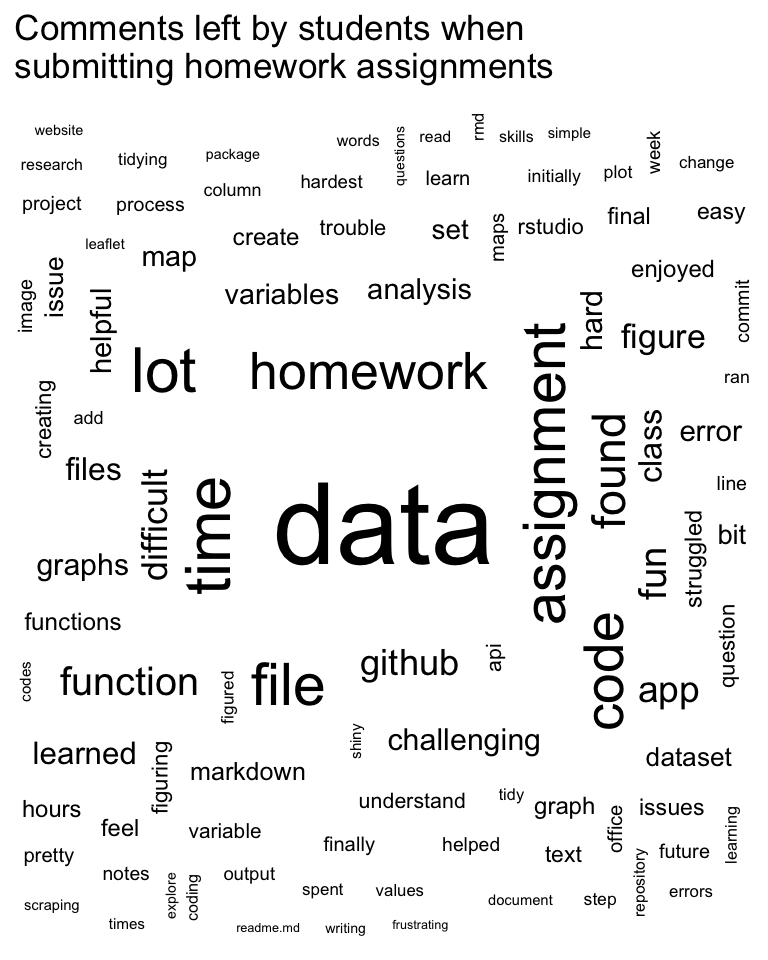
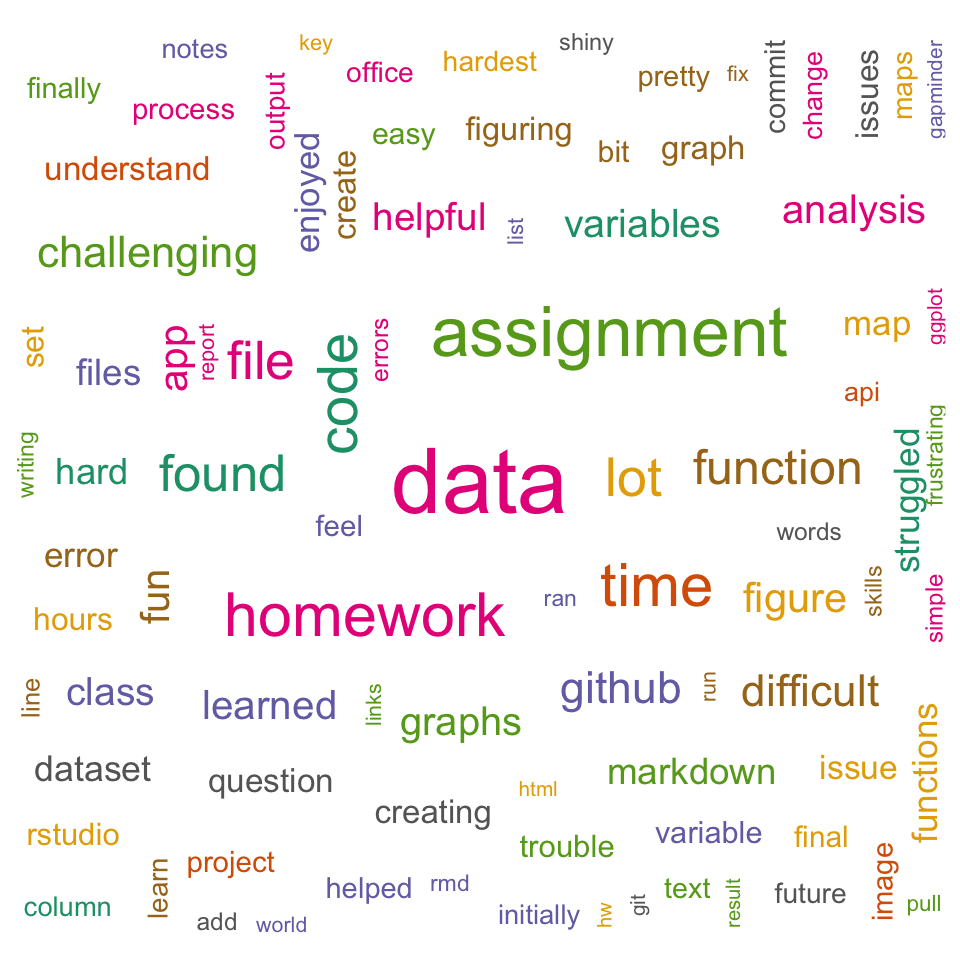
Improve ggwordcloud on front page

Changed region(s): [[0.0, 0.0, 1.0, 0.9688], [0.9375, 0.375, 0.9688, 0.4062]]

diff --git a/content/home/about-course.html b/content/home/about-course.html
@@ -22,7 +22,7 @@ output:
 <div id="macs-30500---computing-for-the-social-sciences" class="section level1">
 <h1>MACS 30500<a href="#fn1" class="footnote-ref" id="fnref1"><sup>1</sup></a> - Computing for the Social Sciences</h1>
 <div class="row">
-<div class="col-sm-8 col-xs-12">
+<div class="col-sm-7.5 col-xs-12">
 <ul>
 <li>Instructor: <a href="http://www.bensoltoff.com">Benjamin Soltoff</a>, Lecturer in <a href="http://macss.uchicago.edu">Computational Social Science</a></li>
 <li>Teaching Assistants
@@ -42,10 +42,10 @@ output:
 <li>Prerequisites: None</li>
 <li><p>Requirements: Bring your own laptop</p>
 </div>
-<div class="col-sm-4 col-xs-12">
+<div class="col-sm-4.5 col-xs-12">
 </li>
 </ul>
-<p><img src="/home/about-course_files/figure-html/pr-wordcloud-1.png" width="384" /></p>
+<p><img src="/home/about-course_files/figure-html/pr-wordcloud-1.png" width="480" /></p>
 </div>
 </div>
 <div id="course-description" class="section level2">
